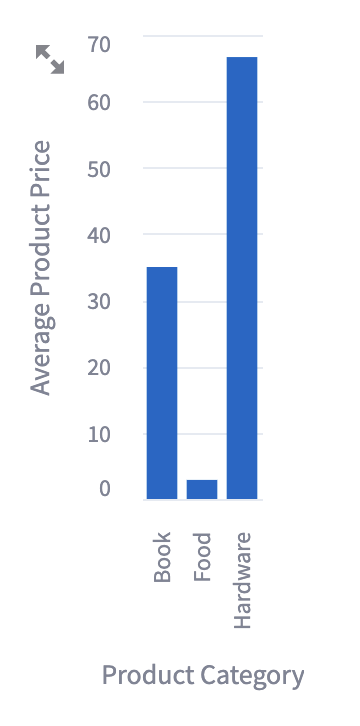
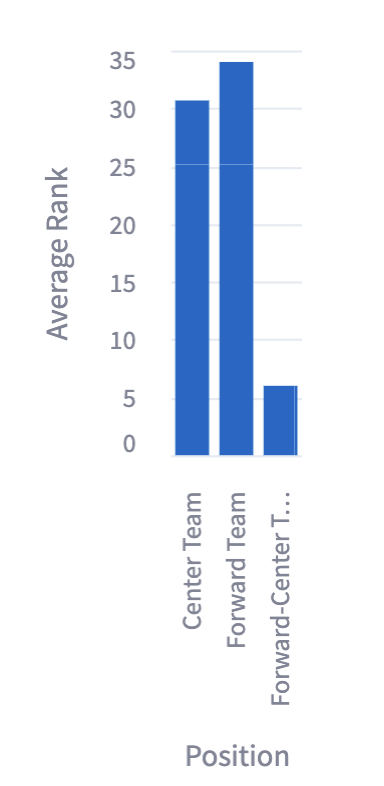
fix platform

diff --git a/Landing.py b/Landing.py
@@ -22,7 +22,7 @@ df_dataset = pd.DataFrame(dataset.data)
 evaluations = conn.query("*", table=eval_table ,ttl="0").execute()
 df_evaluations = pd.DataFrame(evaluations.data)
 
-st.write(len(df_evaluations))
+# st.write(len(df_evaluations))
 
 if(len(df_evaluations)>0):
 # Perform left join
@@ -107,37 +107,37 @@ st.markdown(
     ### User's query:
     """
 )
-# st.write("SISTEMARE CHE DOMANDA E RISPOSTA COICIDONO")
 st.write("""
-    :blue[Return the average price of products that have each category code .]
+    :blue[What is the average rank of pilots in different positions?]
     """)
 st.write("""
     ### Dataset Description:   
         """)
-st.write("""
+# st.write("""
          
-    :blue[[('product_id', 'numeric'), ('parent_product_id', 'numeric'), ('product_category_code', 'categorical'), ('date_product_first_available', 'temporal'), ('date_product_discontinued', 'temporal'), ('product_name', 'categorical'), ('product_description', 'categorical'), ('product_price', 'numeric')]]
-    """)
+#     :blue[[('product_id', 'numeric'), ('parent_product_id', 'numeric'), ('product_category_code', 'categorical'), ('date_product_first_available', 'temporal'), ('date_product_discontinued', 'temporal'), ('product_name', 'categorical'), ('product_description', 'categorical'), ('product_price', 'numeric')]]
+#     """)
+st.dataframe(pd.read_csv("https://nvbenchdatasets.s3.eu-north-1.amazonaws.com/datasets/2586.csv").head(1))
 st.write("""
     ### Responses:
 """)
 
 
 col1, col3 = st.columns(2)
-radio_options = [
-    "1 - Completely Meaningless",
-    "2 - Mostly Meaningless",
-    "3 - Beginning to Inform",
-    "4 - Mostly Meaningful",
-    "5 - Completely Meaningful"
-]
-radio_captions = [
-    "Indicates utter insignificance or lack of importance.",
-    "Implies minimal significance or relevance.",
-    "Signifies the start of providing some information or significance.",
-    "Suggests considerable importance or relevance.",
-    "Signifies utmost significance or profound relevance."
-]
+# radio_options = [
+#     "1 - Completely Meaningless",
+#     "2 - Mostly Meaningless",
+#     "3 - Beginning to Inform",
+#     "4 - Mostly Meaningful",
+#     "5 - Completely Meaningful"
+# ]
+# radio_captions = [
+#     "Indicates utter insignificance or lack of importance.",
+#     "Implies minimal significance or relevance.",
+#     "Signifies the start of providing some information or significance.",
+#     "Suggests considerable importance or relevance.",
+#     "Signifies utmost significance or profound relevance."
+# ]
 
 
 with col1:
@@ -145,18 +145,59 @@ with col1:
     #### Response 1
              """)
     st.image("image_example.png", width=100)
-    st.write("""
-    The user is interested in understanding the average price of products in each category. Therefore, the 'product_category_code' is selected as the x-axis to represent different categories, and the 'product_price' is selected as the y-axis to represent the price of the products. The'mean' aggregate function is used to calculate the average price for each category. The data is then grouped by 'product_category_code' to calculate the average price for each category. This is a bar chart where the x-axis represents different product category codes and the y-axis represents the mean price of products in each category. The bars are grouped by product category code.
+    # st.write("""
+    # The user is interested in understanding the average price of products in each category. Therefore, the 'product_category_code' is selected as the x-axis to represent different categories, and the 'product_price' is selected as the y-axis to represent the price of the products. The'mean' aggregate function is used to calculate the average price for each category. The data is then grouped by 'product_category_code' to calculate the average price for each category. This is a bar chart where the x-axis represents different product category codes and the y-axis represents the mean price of products in each category. The bars are grouped by product category code.
 
-    - Which product category has the highest average price?
-    - Which product category has the lowest average price?
-    - Are there any product categories that have similar average prices?
-    """)
-    st.radio(
-        "Score the answer",
-        radio_options, 
-        captions = radio_captions, 
-        key="2")
+    # # - Which product category has the highest average price?
+    # # - Which product category has the lowest average price?
+    # # - Are there any product categories that have similar average prices?
+    # # """)
+    # st.radio(
+    #     "Score the answer",
+    #     radio_options, 
+    #     captions = radio_captions, 
+    #     key="2")
+    # st.write('## Response gpt')
+     
+        
+    vis_score = st.slider(
+        "Score the visualization", 0, 5, 1,
+        key="vis_score_gpt")
+
+
+    caption = st.container(height=400)
+    caption.markdown('#### Caption')
+    caption.write("""
+                    The visualization is a bar chart that shows the average rank of pilots in different positions The x-axis represents the different positions and the y-axis represents ...
+                    """)
+    value_caption = caption.slider(
+        "Score the caption", 0, 5, 1,
+        key="caption_gpt")
+    
+    explanation = st.container(height=400)
+    explanation.markdown('#### Explanation')
+    explanation.write("""
+The 'rank' and 'position' features are the best among all the others from the dataset based on the user instruction because the user wants to know the average rank of pilots in different ...""")
+    value_exaplanation = explanation.slider(
+        "Score the explanation", 0, 5, 1,
+        key="explanation_gpt")
+
+    questions = st.container(height=400)
+    questions.markdown('#### Questions')
+    questions.write("""
+                Other instructions to generate other data visualizations, based on the generated one, could be
+
+                * What is the average age of pilots in different positions?
+                    """)
+    value_questions = questions.slider(
+        "Score the queries", 0, 5, 1,
+        key="questions_gpt")
+    
+    narrarives = st.container(height=200)
+    narrarives.markdown('#### Narratives importance')
+    narrarives_importance = narrarives.slider(
+        "How much have the three narratives helped you interpret the visualization?", 0, 5, 1,
+        key="narrarives_gpt")
 
 
 with col3:
@@ -164,22 +205,49 @@ with col3:
     #### Response 2
              """)
     st.image("image_example.png", width=100)
-    st.write("""
-    The visualization is a bar chart where each bar represents a product category. The height of each bar represents the average price of products in that category. This allows us to easily compare the average prices across different product categories.
+    vis_score = st.slider(
+        "Score the visualization", 0, 5, 1,
+        )
 
-    Other instructions to generate other data visualizations, based on the generated one, could be:
 
-    - Return the maximum price of products that have each category code.
-    - Return the minimum price of products that have each category code.
-    - Return the total number of products that have each category code.
-    - Return the average price of products that have each category code, but only for products that are still available (not discontinued).
-    """)
+    caption = st.container(height=400)
+    caption.markdown('#### Caption')
+    caption.write("""
+                    The visualization is a bar chart that shows the average rank of pilots in different positions The x-axis represents the different positions and the y-axis represents ...
+                    """)
+    value_caption = caption.slider(
+        "Score the caption", 0, 5, 1,
+        )
+    
+    explanation = st.container(height=400)
+    explanation.markdown('#### Explanation')
+    explanation.write("""
+The 'rank' and 'position' features are the best among all the others from the dataset based on the user instruction because the user wants to know the average rank of pilots in different ...""")
+    value_exaplanation = explanation.slider(
+        "Score the explanation", 0, 5, 1,
+        )
 
-    st.radio(
-        "Score the answer",
-        radio_options, 
-        captions = radio_captions, 
-        key="3")
+    questions = st.container(height=400)
+    questions.markdown('#### Questions')
+    questions.write("""
+                Other instructions to generate other data visualizations, based on the generated one, could be
+
+                * What is the average age of pilots in different positions?
+                    """)
+    value_questions = questions.slider(
+        "Score the queries", 0, 5, 1,
+       )
+    
+    narrarives = st.container(height=200)
+    narrarives.markdown('#### Narratives importance')
+    narrarives_importance = narrarives.slider(
+        "How much have the three narratives helped you interpret the visualization?", 0, 5, 1,
+        )
+    # st.radio(
+    #     "Score the answer",
+    #     radio_options, 
+    #     captions = radio_captions, 
+    #     key="3")
 
 st.write("## Before to proceed, please fillout this form:")
 

diff --git a/pages/Evaluate.py b/pages/Evaluate.py
@@ -53,7 +53,6 @@ if 'df' not in st.session_state:
     else:
         df_eval_newton_cot = tmp_dataset
 
-
     index = 0
     radio_index = None
 else:
@@ -144,8 +143,8 @@ if(st.session_state.index < len(df_eval_newton_cot)):
     pred_gpt = df_eval_newton_cot.at[st.session_state.index,'prediction_gpt']#df_eval_newton_cot.at[st.session_state.index, 'prediction_gpt'].split('Output 3. ADDITIONAL QUESTIONS')[1]
     
 
-    caption_gpt = pred_gpt.split("Step 5")[1].split("Step 6")[0].replace(":", "").replace(".", "").strip()
-    explanation_gpt = pred_gpt.split("Step 6")[1].split("Step 7")[0].replace(":", "").replace(".", "").strip()
+    explanation_gpt  = pred_gpt.split("Step 5")[1].split("Step 6")[0].replace(":", "").replace(".", "").strip()
+    caption_gpt = pred_gpt.split("Step 6")[1].split("Step 7")[0].replace(":", "").replace(".", "").strip()
     questions_gpt = pred_gpt.split("Step 7")[1].replace(":", "").replace(".", "").strip()
 
     pred = df_eval_newton_cot.at[st.session_state.index, 'prediction'].replace(f"Step 1. Vegazero visualization: {pred_vis_}", '')
@@ -176,24 +175,9 @@ if(st.session_state.index < len(df_eval_newton_cot)):
                 explanation_vrecs = pred.split('Step 2. Visualization explanation:')[1].split("This is a ")[0]
             except:
                 pass
-
-    questions_vrecs = pred.split('Step 3.')[1].replace("Insights suggestions:", 'Other instructions to generate other data visualizations, based on the generated one, could be:')
-
-    radio_options = [
-        "1 - Completely Meaningless",
-        "2 - Mostly Meaningless",
-        "3 - Beginning to Inform",
-        "4 - Mostly Meaningful",
-        "5 - Completely Meaningful"
-    ]
-    radio_captions = [
-        "Indicates utter insignificance or lack of importance.",
-        "Implies minimal significance or relevance.",
-        "Signifies the start of providing some information or significance.",
-        "Suggests considerable importance or relevance.",
-        "Signifies utmost significance or profound relevance."
-    ]        
-
+    
+    explanation_vrecs = explanation_vrecs.split('Step 3.')[0]
+    questions_vrecs = pred.split('Step 3.')[1].replace("Insights suggestions:", 'Other instructions to generate other data visualizations, based on the generated one, could include:')
     st.write('Labeled', st.session_state.index+1, 'out of 20')
 
     def vrecs_content():
@@ -243,7 +227,7 @@ if(st.session_state.index < len(df_eval_newton_cot)):
         return {"caption":value_caption, "explanation":value_exaplanation, "questions":value_questions, "vis_score": vis_score, "narrarives_importance": narrarives_importance}
 
     def gpt_content():
-        st.write('## Response gpt')
+        st.write('## Response')
         del pred_vis_gpt['data']
         _, c2, _ = st.columns((1, 1, 1))
         try: 
@@ -294,8 +278,8 @@ if(st.session_state.index < len(df_eval_newton_cot)):
             st.write('User request')
             st.code(utterance)
 
-            st.write(os.path.join('https://nvbenchdatasets.s3.eu-north-1.amazonaws.com/datasets',  df_eval_newton_cot.at[st.session_state.index, 'nvBench_id'].strip() + '.csv'))
-            st.write(df_eval_newton_cot.at[st.session_state.index, 'nvBench_id'].strip())
+            # st.write(os.path.join('https://nvbenchdatasets.s3.eu-north-1.amazonaws.com/datasets',  df_eval_newton_cot.at[st.session_state.index, 'nvBench_id'].strip() + '.csv'))
+            # st.write(df_eval_newton_cot.at[st.session_state.index, 'nvBench_id'].strip())
             # df_data = pd.read_csv(os.path.join('https://nvbenchdatasets.s3.eu-north-1.amazonaws.com/datasets',  df_eval_newton_cot.at[st.session_state.index, 'nvBench_id'].strip() + '.csv'))
             if(df_eval_newton_cot.at[st.session_state.index, 'nvBench_id'].strip() == "custom_1"):
                 df_data = pd.read_csv(os.path.join('https://nvbenchdatasets.s3.eu-north-1.amazonaws.com/datasets/custom_1.csv'), index_col=0,  sep=",", encoding='Latin-1')
@@ -331,23 +315,23 @@ if(st.session_state.index < len(df_eval_newton_cot)):
                 if(not st.session_state.start):
                     if(not debug):
                         st.write('qua')
-                        # conn.table(eval_table).insert(
-                        #     [{
-                        #     'index_vis':  df_eval_newton_cot.at[st.session_state.index -1,'id'], 
-                        #     'index_nvbench': df_eval_newton_cot.at[st.session_state.index -1, 'nvBench_id'].strip(), 
-                        #     'user': str(st.session_state.user),
-                        #     'score_caption_gpt': gpt_scores['caption'],
-                        #     'score_explanation_gpt': gpt_scores['explanation'],
-                        #     'score_questions_gpt': gpt_scores['questions'],
-                        #     'score_caption_vrecs': vres_scores['caption'],
-                        #     'score_explanation_vrecs':  vres_scores['explanation'],
-                        #     'score_questions_vrecs': vres_scores['questions'],
-                        #     'narratives_importance_gpt': gpt_scores['narrarives_importance'],
-                        #     'narratives_importance_vrecs': vres_scores['narrarives_importance'],
-                        #     'vis_score_gpt': gpt_scores['vis_score'],
-                        #     'vis_score_vrecs': vres_scores['vis_score'],
-                        #     }], count="None"
-                        # ).execute()
+                        conn.table(eval_table).insert(
+                            [{
+                            'index_vis':  df_eval_newton_cot.at[st.session_state.index -1,'id'], 
+                            'index_nvbench': df_eval_newton_cot.at[st.session_state.index -1, 'nvBench_id'].strip(), 
+                            'user': str(st.session_state.user),
+                            'score_caption_gpt': gpt_scores['caption'],
+                            'score_explanation_gpt': gpt_scores['explanation'],
+                            'score_questions_gpt': gpt_scores['questions'],
+                            'score_caption_vrecs': vres_scores['caption'],
+                            'score_explanation_vrecs':  vres_scores['explanation'],
+                            'score_questions_vrecs': vres_scores['questions'],
+                            'narratives_importance_gpt': gpt_scores['narrarives_importance'],
+                            'narratives_importance_vrecs': vres_scores['narrarives_importance'],
+                            'vis_score_gpt': gpt_scores['vis_score'],
+                            'vis_score_vrecs': vres_scores['vis_score'],
+                            }], count="None"
+                        ).execute()
                     # else:
                     #     conn.table(eval_table).insert(
                     #     [{"score_response1": '', 
